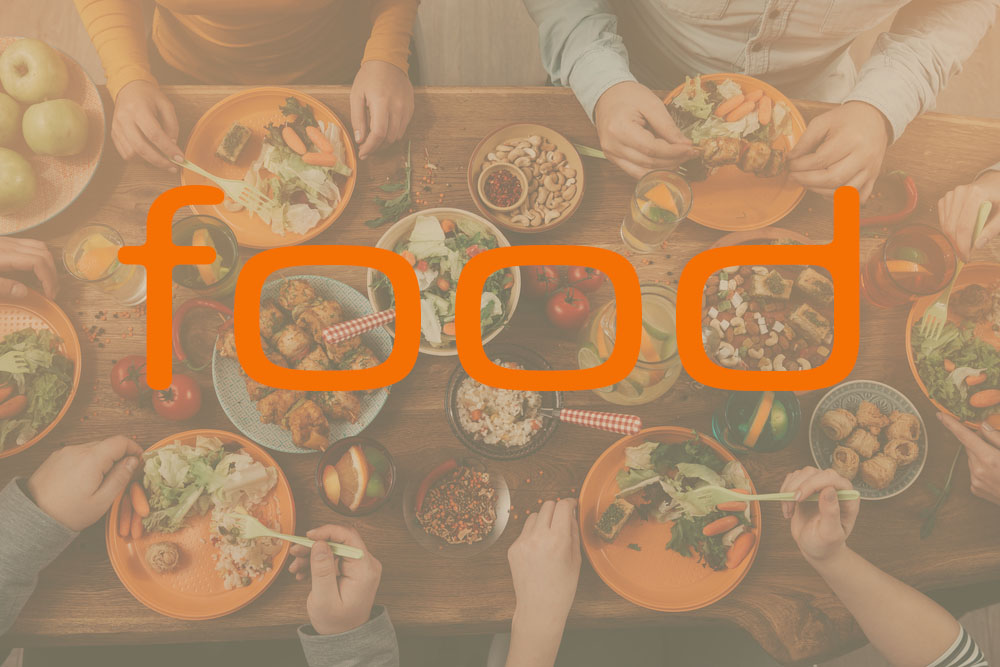
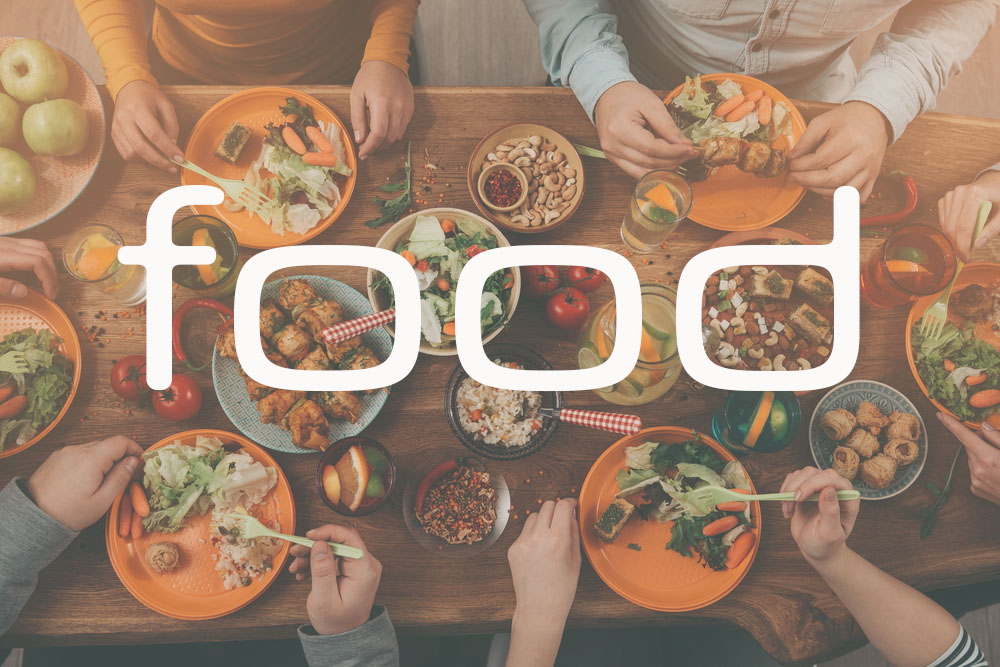
"Designed all pics for tree except for idk"

diff --git a/output/bundle.js b/output/bundle.js
@@ -3394,27 +3394,27 @@ function selectChoice(option, zip, userID, username) {
   if (option === 'food') {
     return {
       type: 'CHOICES_SELECTED',
-      payload: [{ img: 'http://www.maturetimes.co.uk/wp-content/uploads/2013/10/breakfast-including-coffee-honey-848x478.jpg', option: 'breakfast' }, { img: 'http://bjxcenter.com/wp-content/uploads/2015/05/dinner.jpg', option: 'lunch/dinner' }, { img: 'https://abtasty-mtgy74j.netdna-ssl.com/content/uploads/homer-brain-monkey.jpg', option: 'anyfood' }]
+      payload: [{ img: './assets/breakfast.jpg', option: 'breakfast' }, { img: './assets/dinner.jpg', option: 'lunch/dinner' }, { img: 'https://abtasty-mtgy74j.netdna-ssl.com/content/uploads/homer-brain-monkey.jpg', option: 'anyfood' }]
     };
   } else if (option === 'party') {
     return {
       type: 'CHOICES_SELECTED',
-      payload: [{ img: 'https://i.ytimg.com/vi/CX8Uuynkppw/maxresdefault.jpg', option: 'bar' }, { img: 'https://s-media-cache-ak0.pinimg.com/originals/42/26/8a/42268a15745703bbff25a4ca2e7e461b.jpg', option: 'club' }, { img: 'https://encrypted-tbn0.gstatic.com/images?q=tbn:ANd9GcQTpwzRlQlQemkHCfO4JA4yYbGX_tnStjZLPxRnaMaIcjTeGq0N', option: 'lounge' }, { img: 'https://abtasty-mtgy74j.netdna-ssl.com/content/uploads/homer-brain-monkey.jpg', option: 'anyparty' }]
+      payload: [{ img: './assets/bar.jpg', option: 'bar' }, { img: './assets/club.jpg', option: 'club' }, { img: './assets/lounge.jpg', option: 'lounge' }, { img: 'https://abtasty-mtgy74j.netdna-ssl.com/content/uploads/homer-brain-monkey.jpg', option: 'anyparty' }]
     };
   } else if (option === 'sports') {
     return {
       type: 'CHOICES_SELECTED',
-      payload: [{ img: 'https://indonesia.tripcanvas.co/bali/wp-content/uploads/2015/02/kitesurfing21.jpg', option: 'extreme' }, { img: 'http://caffeyoga.com/wp-content/uploads/2016/01/beach-yoga1.jpg', option: 'chill' }, { img: 'https://abtasty-mtgy74j.netdna-ssl.com/content/uploads/homer-brain-monkey.jpg', option: 'anysports' }]
+      payload: [{ img: './assets/extreme.jpg', option: 'extreme' }, { img: './assets/chill.jpg', option: 'chill' }, { img: 'https://abtasty-mtgy74j.netdna-ssl.com/content/uploads/homer-brain-monkey.jpg', option: 'anysports' }]
     };
   } else if (option === 'relax') {
     return {
       type: 'CHOICES_SELECTED',
-      payload: [{ img: 'http://bhubaneswarlive.com/wp-content/uploads/2017/01/spa-services-in-bhubaneswar.jpg', option: 'body&mind' }, { img: 'https://encrypted-tbn2.gstatic.com/images?q=tbn:ANd9GcQlBVJ8BIMYMBvtYycyIWcH4fQ-GLJ2eal2tLfDcYWfTQiaPURd3w', option: 'getOut' }, { img: 'https://abtasty-mtgy74j.netdna-ssl.com/content/uploads/homer-brain-monkey.jpg', option: 'anyrelax' }]
+      payload: [{ img: './assets/body&mind.jpg', option: 'body&mind' }, { img: './assets/getout.jpg', option: 'getOut' }, { img: 'https://abtasty-mtgy74j.netdna-ssl.com/content/uploads/homer-brain-monkey.jpg', option: 'anyrelax' }]
     };
   } else if (option === 'activity') {
     return {
       type: 'CHOICES_SELECTED',
-      payload: [{ img: 'http://www.visitcalifornia.com/sites/default/files/styles/welcome_image/public/VCW_D_SantaCruz_T2_Lisa_7547806186_6171c42b54_o_1280x642.jpg', option: 'entertainment' }, { img: 'http://www.travelinsurance.org/wp-content/uploads/2009/11/skydiving.jpg', option: 'daredevil' }, { img: 'https://abtasty-mtgy74j.netdna-ssl.com/content/uploads/homer-brain-monkey.jpg', option: 'anyactivity' }]
+      payload: [{ img: './assets/entertain.jpg', option: 'entertainment' }, { img: './assets/daredevil.jpg', option: 'daredevil' }, { img: 'https://abtasty-mtgy74j.netdna-ssl.com/content/uploads/homer-brain-monkey.jpg', option: 'anyactivity' }]
     };
     // server calls
   } else if (option === 'breakfast') {
@@ -40157,7 +40157,7 @@ var initialState = {
   zipCode: false,
   showAll: [],
 
-  firstLoad: [{ img: './assets/food.jpg', option: 'food', title: 'food' }, { img: 'http://www.miamiandbeaches.com/~/media/Images/GMCVB/MiamiAndBeaches/Featured%20Articles/Featured%20Article%20Headers/clubs-101-3-612-x-338.jpg', option: 'party', title: 'party' }, { img: 'http://www.pkvitality.com/wp-content/uploads/2016/12/accuracy.jpg', option: 'sports', title: 'sports' }, { img: 'http://s.hswstatic.com/gif/relaxation-quiz-orig.jpg', option: 'relax', title: 'relax' }, { img: 'https://secure.parksandresorts.wdpromedia.com/resize/mwImage/1/640/360/75/wdpromedia.disney.go.com/media/wdpro-assets/dlr/gallery/destinations/disneyland-park/disneyland-gallery25.jpg?21042014145156', option: 'activity', title: 'activity' }, { img: 'https://abtasty-mtgy74j.netdna-ssl.com/content/uploads/homer-brain-monkey.jpg', option: 'any', title: 'I have no idea' }]
+  firstLoad: [{ img: './assets/food.jpg', option: 'food' }, { img: './assets/party.jpg', option: 'party' }, { img: './assets/sports.jpg', option: 'sports' }, { img: './assets/relax.jpg', option: 'relax' }, { img: './assets/activity.jpg', option: 'activity' }, { img: 'https://abtasty-mtgy74j.netdna-ssl.com/content/uploads/homer-brain-monkey.jpg', option: 'any', title: 'I have no idea' }]
 };
 
 //console.log('in redcucer')

diff --git a/src/actions/index.jsx b/src/actions/index.jsx
@@ -131,41 +131,41 @@ export function selectChoice(option, zip, userID, username) {
   if (option === 'food') {
     return {
       type: 'CHOICES_SELECTED',
-      payload: [{ img: 'http://www.maturetimes.co.uk/wp-content/uploads/2013/10/breakfast-including-coffee-honey-848x478.jpg', option: 'breakfast' },
-      { img: 'http://bjxcenter.com/wp-content/uploads/2015/05/dinner.jpg', option: 'lunch/dinner' },
+      payload: [{ img: './assets/breakfast.jpg', option: 'breakfast' },
+      { img: './assets/dinner.jpg', option: 'lunch/dinner' },
       { img: 'https://abtasty-mtgy74j.netdna-ssl.com/content/uploads/homer-brain-monkey.jpg', option: 'anyfood' },
       ],
     };
   } else if (option === 'party') {
     return {
       type: 'CHOICES_SELECTED',
-      payload: [{ img: 'https://i.ytimg.com/vi/CX8Uuynkppw/maxresdefault.jpg', option: 'bar' },
-      { img: 'https://s-media-cache-ak0.pinimg.com/originals/42/26/8a/42268a15745703bbff25a4ca2e7e461b.jpg', option: 'club' },
-      { img: 'https://encrypted-tbn0.gstatic.com/images?q=tbn:ANd9GcQTpwzRlQlQemkHCfO4JA4yYbGX_tnStjZLPxRnaMaIcjTeGq0N', option: 'lounge' },
+      payload: [{ img: './assets/bar.jpg', option: 'bar' },
+      { img: './assets/club.jpg', option: 'club' },
+      { img: './assets/lounge.jpg', option: 'lounge' },
       { img: 'https://abtasty-mtgy74j.netdna-ssl.com/content/uploads/homer-brain-monkey.jpg', option: 'anyparty' },
       ],
     };
   } else if (option === 'sports') {
     return {
       type: 'CHOICES_SELECTED',
-      payload: [{ img: 'https://indonesia.tripcanvas.co/bali/wp-content/uploads/2015/02/kitesurfing21.jpg', option: 'extreme' },
-      { img: 'http://caffeyoga.com/wp-content/uploads/2016/01/beach-yoga1.jpg', option: 'chill' },
+      payload: [{ img: './assets/extreme.jpg', option: 'extreme' },
+      { img: './assets/chill.jpg', option: 'chill' },
       { img: 'https://abtasty-mtgy74j.netdna-ssl.com/content/uploads/homer-brain-monkey.jpg', option: 'anysports' },
       ],
     };
   } else if (option === 'relax') {
     return {
       type: 'CHOICES_SELECTED',
-      payload: [{ img: 'http://bhubaneswarlive.com/wp-content/uploads/2017/01/spa-services-in-bhubaneswar.jpg', option: 'body&mind' },
-      { img: 'https://encrypted-tbn2.gstatic.com/images?q=tbn:ANd9GcQlBVJ8BIMYMBvtYycyIWcH4fQ-GLJ2eal2tLfDcYWfTQiaPURd3w', option: 'getOut' },
+      payload: [{ img: './assets/body&mind.jpg', option: 'body&mind' },
+      { img: './assets/getout.jpg', option: 'getOut' },
       { img: 'https://abtasty-mtgy74j.netdna-ssl.com/content/uploads/homer-brain-monkey.jpg', option: 'anyrelax' },
       ],
     };
   } else if (option === 'activity') {
     return {
       type: 'CHOICES_SELECTED',
-      payload: [{ img: 'http://www.visitcalifornia.com/sites/default/files/styles/welcome_image/public/VCW_D_SantaCruz_T2_Lisa_7547806186_6171c42b54_o_1280x642.jpg', option: 'entertainment' },
-      { img: 'http://www.travelinsurance.org/wp-content/uploads/2009/11/skydiving.jpg', option: 'daredevil' },
+      payload: [{ img: './assets/entertain.jpg', option: 'entertainment' },
+      { img: './assets/daredevil.jpg', option: 'daredevil' },
       { img: 'https://abtasty-mtgy74j.netdna-ssl.com/content/uploads/homer-brain-monkey.jpg', option: 'anyactivity' },
       ],
     };

diff --git a/src/reducers/choices.jsx b/src/reducers/choices.jsx
@@ -9,11 +9,11 @@ var initialState = {
   showAll: [],
 
   firstLoad: [
-    { img: './assets/food.jpg', option: 'food', title: 'food' },
-    { img: 'http://www.miamiandbeaches.com/~/media/Images/GMCVB/MiamiAndBeaches/Featured%20Articles/Featured%20Article%20Headers/clubs-101-3-612-x-338.jpg', option: 'party', title: 'party' },
-    { img: 'http://www.pkvitality.com/wp-content/uploads/2016/12/accuracy.jpg', option: 'sports', title: 'sports' },
-    { img: 'http://s.hswstatic.com/gif/relaxation-quiz-orig.jpg', option: 'relax', title: 'relax' },
-    { img: 'https://secure.parksandresorts.wdpromedia.com/resize/mwImage/1/640/360/75/wdpromedia.disney.go.com/media/wdpro-assets/dlr/gallery/destinations/disneyland-park/disneyland-gallery25.jpg?21042014145156', option: 'activity', title: 'activity' },
+    { img: './assets/food.jpg', option: 'food' },
+    { img: './assets/party.jpg', option: 'party' },
+    { img: './assets/sports.jpg', option: 'sports' },
+    { img: './assets/relax.jpg', option: 'relax' },
+    { img: './assets/activity.jpg', option: 'activity' },
     { img: 'https://abtasty-mtgy74j.netdna-ssl.com/content/uploads/homer-brain-monkey.jpg', option: 'any', title: 'I have no idea' },
   ],
  /* dayLoad: [
